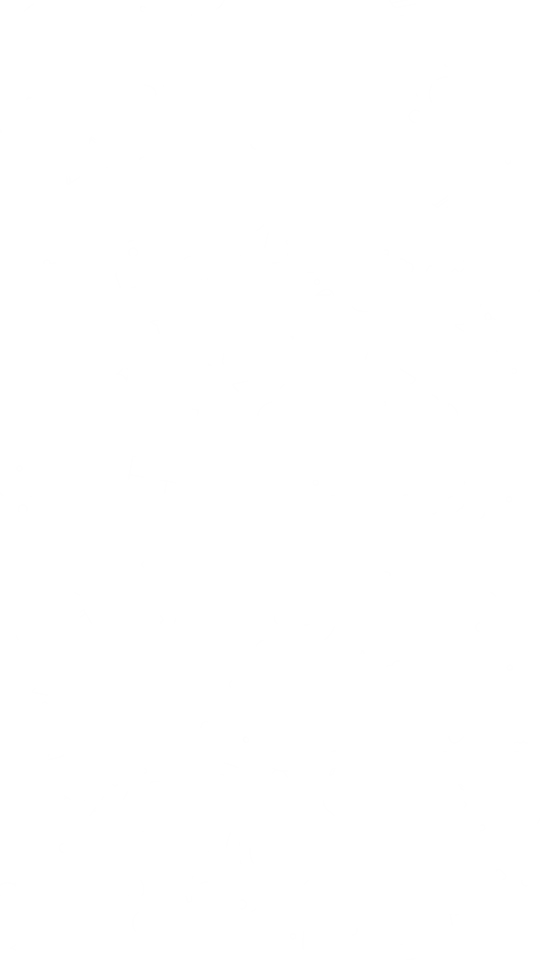
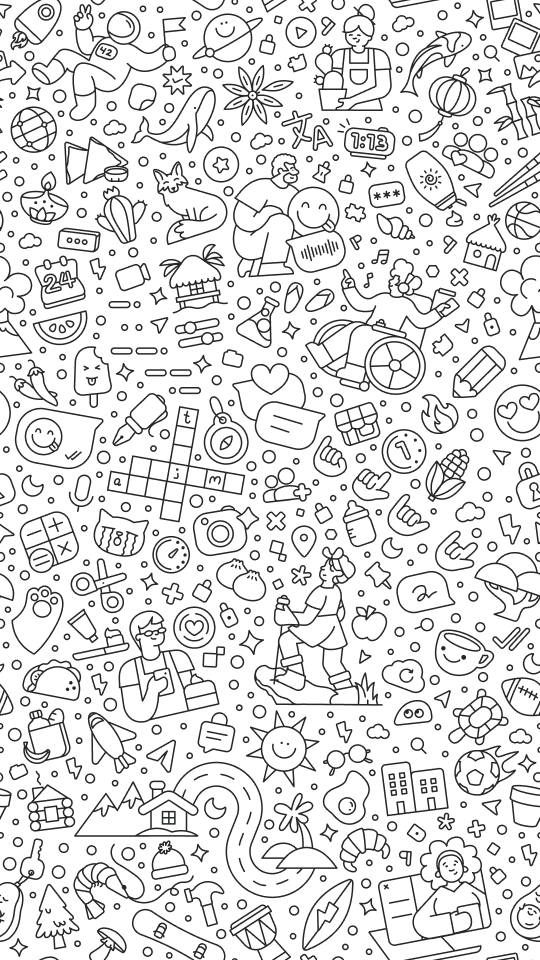
Update chat theme and isolate build output dir
- Message bubble colours match WhatsApp dark theme
- Input field and composer spacing adjusted
- Removed background blend mode for crisp wallpaper
- Build output uses BUILD_DIST_DIR env, stored in .next-build

Changed region(s): [[0.0, 0.0, 1.0, 1.0]]

diff --git a/whatsapp-tauri/src/app/components/tab-active-panel/current-chat.tsx b/whatsapp-tauri/src/app/components/tab-active-panel/current-chat.tsx
@@ -231,10 +231,10 @@ function Composer({
   };
 
   return (
-    <form className="z-30 h-auto w-full p-4" onSubmit={handleSubmit}>
+    <form className="z-30 h-auto w-full px-4 pb-2 pt-1" onSubmit={handleSubmit}>
       <input
         aria-label="Message"
-        className="w-full rounded-full bg-white/15 p-3 px-4 text-sm text-white caret-green-400 outline-none placeholder:text-white/60"
+        className="w-full rounded-full bg-[#242626] p-3 px-4 text-sm text-white caret-green-400 outline-none placeholder:text-white/60"
         disabled={isSending}
         placeholder={isSending ? "Sending..." : "Type a message"}
         value={messageText}
@@ -271,7 +271,7 @@ export default function CurrentChat() {
     <section className="flex h-full min-h-0 w-full flex-col">
       <ContactHeader />
       <div
-        className="relative flex min-h-0 w-full flex-1 flex-col items-center justify-end bg-[#161717] bg-[url('/background.webp')] bg-repeat bg-blend-soft-light"
+        className="relative flex min-h-0 w-full flex-1 flex-col items-center justify-end bg-[#161717] bg-[url('/background.webp')] bg-repeat"
       >
         <MessageList
           key={chatId}

diff --git a/whatsapp-tauri/src/app/components/tab-active-panel/chat-message.tsx b/whatsapp-tauri/src/app/components/tab-active-panel/chat-message.tsx
@@ -35,7 +35,7 @@ export default function ChatMessage({
   const bubble = (
     <div
       className={`min-w-0 rounded-lg px-2 py-1.5 ${
-        message.isSentFromUser ? "bg-emerald-900" : "bg-[#30383d]"
+        message.isSentFromUser ? "bg-[#144D37]" : "bg-[#242626]"
       }`}
     >
       {isGroup && !message.isSentFromUser && showSender ? (

diff --git a/whatsapp-tauri/next.config.ts b/whatsapp-tauri/next.config.ts
@@ -1,6 +1,7 @@
 import type { NextConfig } from "next";
 
 const nextConfig: NextConfig = {
+  distDir: process.env.BUILD_DIST_DIR,
   output: "export",
   images: {
     unoptimized: true,
